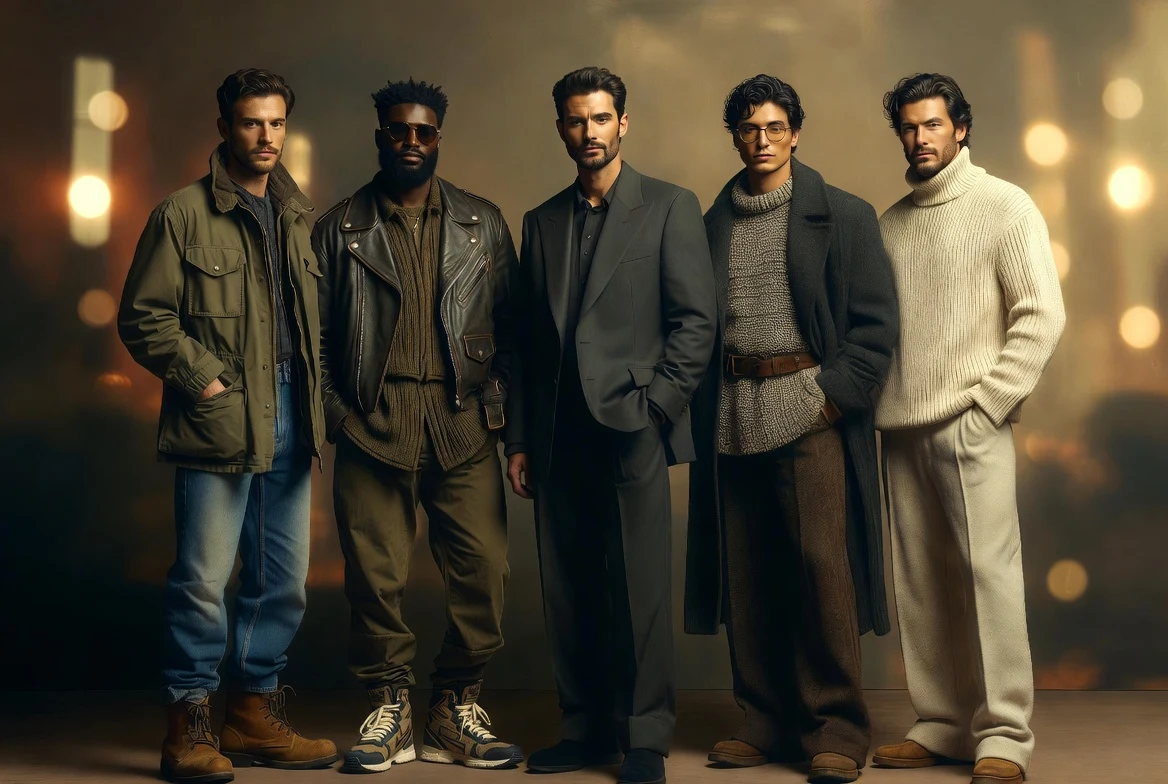
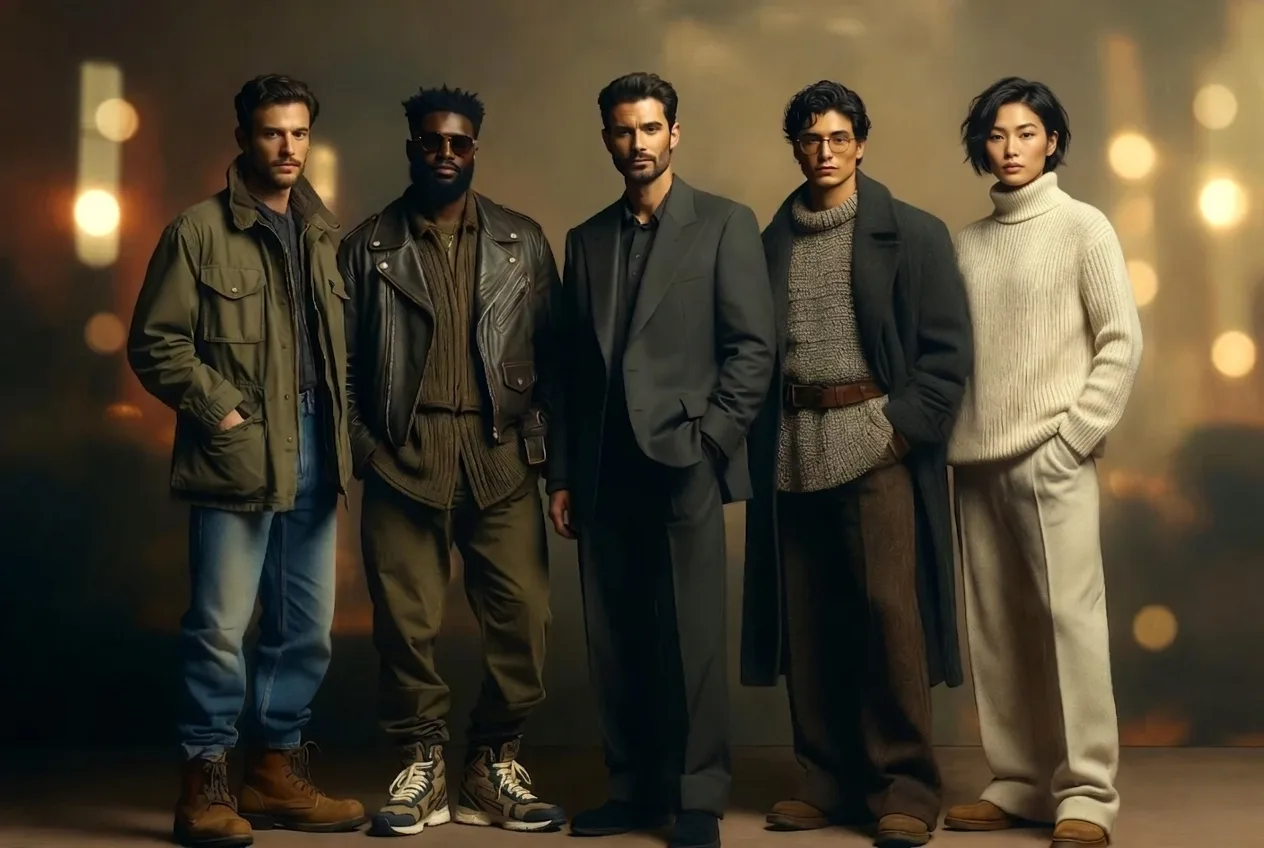
Update feminine quiz questions, archetype images + color palettes
- Replace all 7 feminine quiz questions with Danielle's new wardrobe-focused set
- Add 14 new feminine + 7 new masculine archetype card images (converted to WebP)
- Replace ensemble hero/cards images with diversity-edited versions
- Remove Gemini watermarks from cinematic-2, painterly-2, sovereign-6
- Update all 12 archetype color palettes per Danielle's specifications

diff --git a/src/content/archetypes/the-creator.md b/src/content/archetypes/the-creator.md
@@ -14,6 +14,6 @@ Your style says: *I make the rules I live by. You're welcome to look.*
 
 **Signature pieces:** Mixed-print combinations, experimental cuts, bold accessories as punctuation, artist-adjacent textures, unexpected color combinations, hand-crafted or artisan pieces and oversized and fitted combos.
 
-**Your palette:** Bright primaries, fun color-blocking, unexpected combinations and pops of neon or saturated hues.
+**Your palette:** Cherry red, green, orange, neon yellow, electric green, bright blue, hot pink
 
 **Creator icons:** Iris Apfel, Solange Knowles, Erykah Badu.

diff --git a/src/content/archetypes/the-enchantress.md b/src/content/archetypes/the-enchantress.md
@@ -14,6 +14,6 @@ Your style says: *There's more than meets the eye. Come closer.*
 
 **Signature pieces:** Draped or asymmetrical pieces, lace elements, dramatic sleeve details, sheer overlays, smoky-toned midi skirts, layered and gemstone jewelry, boots with presence.
 
-**Your palette:** Plum, burgundy, wine, black, smoke, midnight blue, deep forest greens, iridescent or opal-like accents.
+**Your palette:** Plum, burgundy, black, smoky gray, midnight blue, deep forest green, opal
 
 **Enchantress icons:** Winona Ryder, Dita Von Teese, Lana Del Rey.

diff --git a/src/content/archetypes/the-protector.md b/src/content/archetypes/the-protector.md
@@ -16,6 +16,6 @@ Your style says: *I'm steady. I'm here. I'm not going anywhere.*
 
 **Signature pieces:** Heavyweight chore jackets, quality leather boots, well-fitted dark denim, classic crew-neck sweatshirt, military-inspired outerwear, dependable field watches.
 
-**Your palette:** Deep earth tones — olive, forest green, charcoal, slate, camel, chocolate brown, muted burgundy or rust accents
+**Your palette:** Olive, forest green, camel, chocolate brown, warm gray
 
 **Protector icons:** Steve McQueen, Idris Elba, David Beckham (off-duty).

diff --git a/src/content/archetypes/the-maverick.md b/src/content/archetypes/the-maverick.md
@@ -16,6 +16,6 @@ Your style says: *You've never seen this before. And you won't again.*
 
 **Signature pieces:** Oversized statement outerwear, graphic tees, mixed-era layering, bold accessories, unexpected footwear choices, one-of-a-kind finds.
 
-**Your palette:** High-contrast with unexpected pops — black and white base with electric blue, cherry red, emerald, bright orange or neon accents.
+**Your palette:** Electric blue, cherry red, electric green, bright orange, black
 
 **Maverick icons:** Tyler, The Creator, Harry Styles, Kid Cudi.

diff --git a/src/content/archetypes/the-angelic-one.md b/src/content/archetypes/the-angelic-one.md
@@ -14,6 +14,6 @@ Your style says: *I am exactly where I belong, and I am at peace.*
 
 **Signature pieces:** Flowy sun dresses, simple silk pieces, soft-knit cardigans, ballet flats, pearl jewelry, sheer layers, light wash denim, linen basics in cloud-soft tones.
 
-**Your palette:** Ivory, cream, powder pink, baby blue, butter yellow, warm white, pale gold, soft champagne, silver.
+**Your palette:** Baby pink, powder blue, butter yellow, white, silver, soft gold, cream
 
 **Angelic icons:** Lily-Rose Depp, Grace Kelly, Elle Fanning

diff --git a/src/content/archetypes/the-empress.md b/src/content/archetypes/the-empress.md
@@ -16,6 +16,6 @@ Your style says: *I am here, grounded, and abundant.*
 
 **Signature pieces:** Silk blouses, gold jewelry, tailored yet comfortable trousers, cashmere wraps, elevated knitwear, structured handbags, quality loafers, luxe staples, rich fabrics.
 
-**Your palette:** Warm earthy colors — olive, sage, warm neutrals (caramel, taupe), terracotta, soft gold, rich browns.
+**Your palette:** Olive, sage, caramel, taupe, soft gold, terracotta, chocolate brown
 
 **Empress icons:** Meghan Markle, Amal Clooney, Oprah Winfrey.

diff --git a/src/content/archetypes/the-warrior.md b/src/content/archetypes/the-warrior.md
@@ -14,6 +14,6 @@ Your style says: *I am prepared for whatever the day brings.*
 
 **Signature pieces:** Structured blazers, tailored trousers, crisp white shirts, sleek trench coats, minimal statement jewelry, strong-shouldered dresses, clean leather pieces, pointed toe shoes.
 
-**Your palette:** Black, white, tan, navy, charcoal, emerald or electric cobalt (as accents), metallic silver
+**Your palette:** Black, white, tan, silver, navy, charcoal, cobalt blue
 
 **Warrior icons:** Tilda Swinton, Lupita Nyong'o, Christy Turlington.

diff --git a/src/content/archetypes/the-sovereign.md b/src/content/archetypes/the-sovereign.md
@@ -16,6 +16,6 @@ Your style says: *This is me. It always has been.*
 
 **Signature pieces:** Perfectly fitted basics, cashmere, quality denim, clean leather goods, understated watches, elevated luxe basics, timeless outerwear, pieces that feel like a second skin.
 
-**Your palette:** Refined and effortless — cream, ivory, camel, charcoal, soft black, soft taupe, muted monochrome palettes.
+**Your palette:** White, cream, camel, chocolate brown, moss green
 
 **Sovereign icons:** Bradley Cooper, Ryan Gosling, Jake Gyllenhaal.

diff --git a/src/content/archetypes/the-siren.md b/src/content/archetypes/the-siren.md
@@ -14,6 +14,6 @@ Your style says: *I know who I am. You should too.*
 
 **Signature pieces:** Bodycon dresses, wrap silhouettes, form-flattering bodysuits, high-slit skirts, plunging necklines done with confidence, rich jewel-toned satins, form-fitting bottoms, statement heels.
 
-**Your palette:** Power reds, deep wine, black, obsidian, metallic gold, saturated jewel tones
+**Your palette:** Power red, black, deep wine, obsidian, gold, emerald, sapphire
 
 **Siren icons:** Sofia Vergara, Salma Hayek, Kim Kardashian.

diff --git a/src/content/archetypes/the-muse.md b/src/content/archetypes/the-muse.md
@@ -14,6 +14,6 @@ Your style says: *I see beauty everywhere I go, and I wear it.*
 
 **Signature pieces:** Flowy midi dresses, romantic blouses, feminine jewelry, statement accessories, floral prints, ethereal layering.
 
-**Your palette:** Dusty rose, sage green, lavender, ivory, antique gold, muted periwinkle, bright pops of color (usually used for accents)
+**Your palette:** Blush pink, peach, lavender, champagne, ivory, sage green, misty blue
 
 **Muse icons:** Carrie Bradshaw, Alexa Chung, Zooey Deschanel.

diff --git a/src/content/archetypes/the-alchemist.md b/src/content/archetypes/the-alchemist.md
@@ -16,6 +16,6 @@ Your style says: *I'm becoming. Watch closely.*
 
 **Signature pieces:** Textured layers, mood-driven accessories, vintage and thrifted finds, statement rings, pieces with sentimental value and history, draped silhouettes.
 
-**Your palette:** Mood-dependent — deep burgundy, midnight, forest green, aged gold, storm grey, burnt umber, plum.
+**Your palette:** Plum, burgundy, forest green, midnight blue, smoky turquoise
 
 **Alchemist icons:** Donald Glover, Jared Leto, Lenny Kravitz.

diff --git a/src/content/archetypes/the-architect.md b/src/content/archetypes/the-architect.md
@@ -16,6 +16,6 @@ Your style says: *Nothing here is by accident.*
 
 **Signature pieces:** Tailored blazers with architectural shoulders, minimalist watches, structured trousers, clean sneakers, well-pressed button-downs, precision-cut outerwear.
 
-**Your palette:** Controlled neutrals — black, white, charcoal, navy, steel grey, bone, tan.
+**Your palette:** Black, white, navy, tan, taupe
 
 **Architect icons:** Tom Ford, A$AP Rocky (structured looks), David Gandy.
